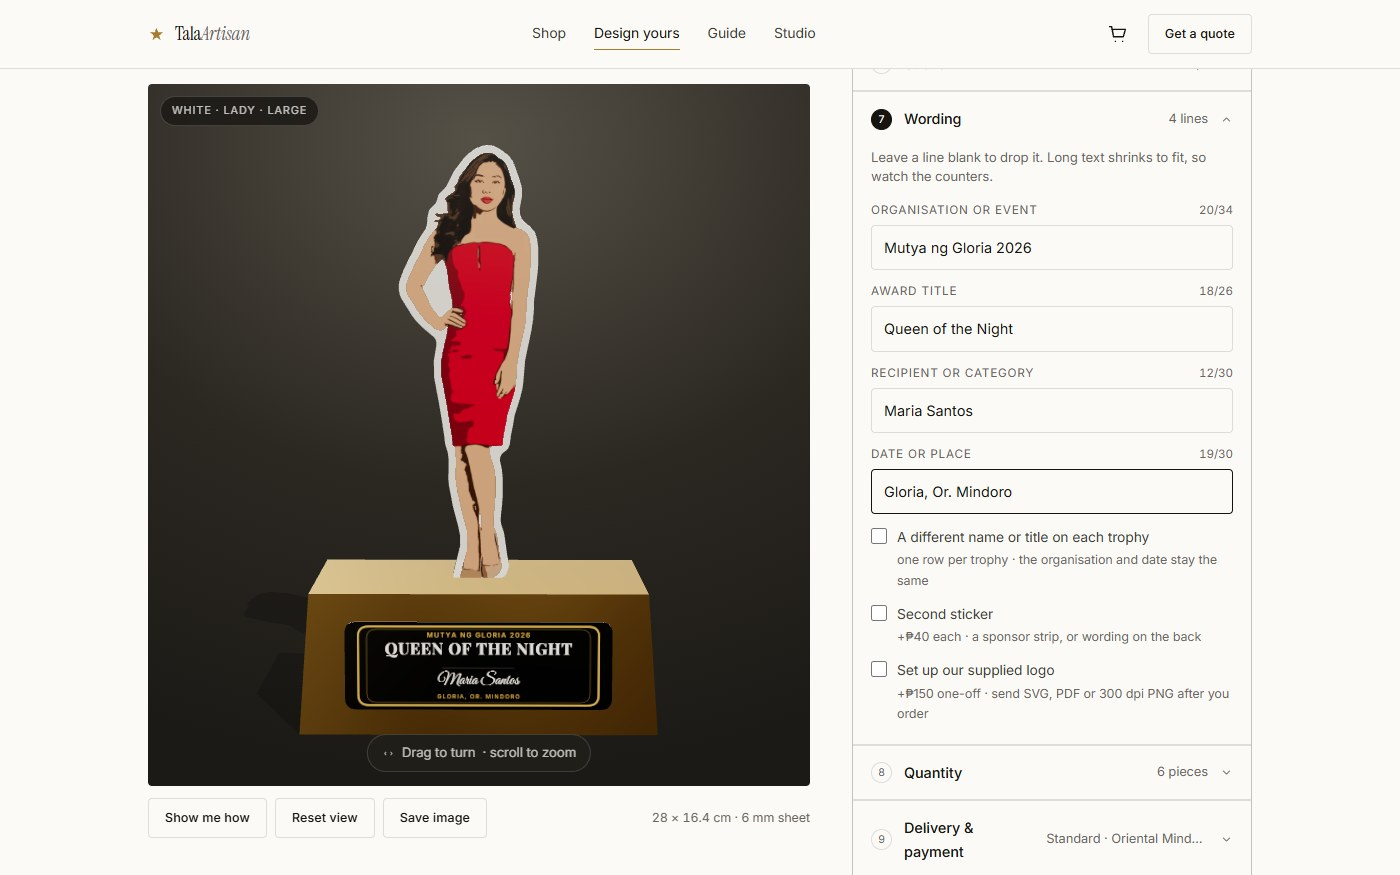
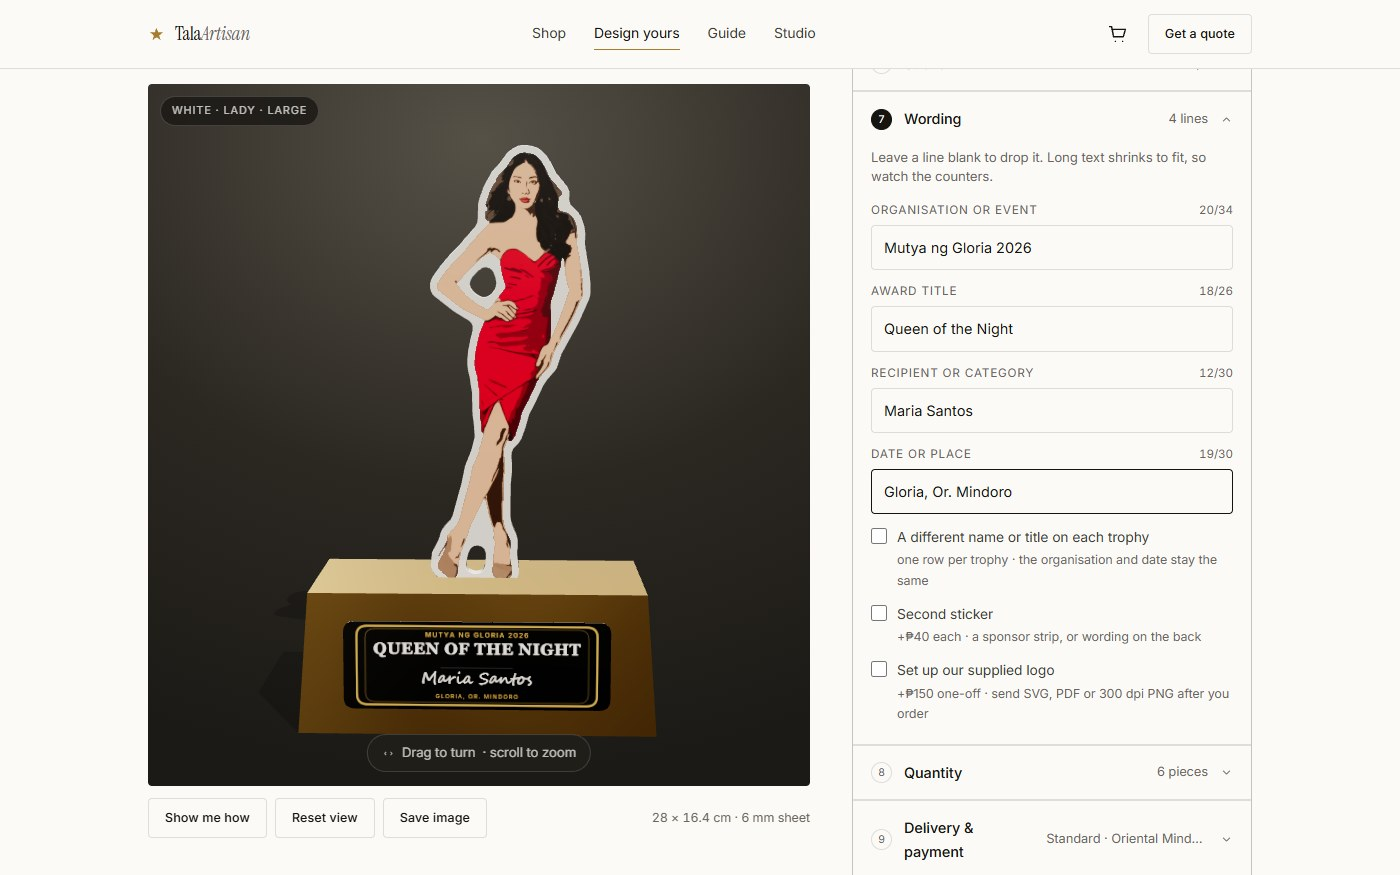
The Lady is a fashion model now
The owner asked for the Lady figure "like a model instead": a tall, slim
model in a strapless red dress, a hand on her hip and one leg crossed in
front, printed in the same ink-line style with a sharp face. The Guide's
wording picture shows her.

Changed region(s): [[0.2764, 0.1543, 0.43, 0.6789], [0.2457, 0.7097, 0.43, 0.8331]]

diff --git a/assets/js/trophy.js b/assets/js/trophy.js
@@ -794,20 +794,26 @@ const GENT_TRACE = `M102.3 299.9 L83.1 299.9 L81.6 298.2 L77.1 295.4 L74.0 292.9
   L87.1 185.4 L87.1 198.1 L90.8 222.4 L92.0 243.7 L93.0 253.4 L93.1 259.5 L92.8 264.6 L92.4 267.4
   L91.1 273.4 L91.1 275.7 L91.4 277.1 L92.8 279.4 L98.1 285.9 L101.7 291.3 L102.4 294.5 Z`;
 
-const LADY_TRACE = `M70.2 299.9 L40.1 299.9 L39.7 293.0 L39.8 290.7 L44.5 271.4 L44.5 263.5 L43.4 257.6 L39.7 243.3
-  L37.0 229.0 L36.6 224.2 L36.8 210.9 L36.4 206.7 L36.0 204.8 L34.5 200.0 L33.6 192.5 L30.9 174.8
-  L27.1 153.9 L27.0 142.5 L28.7 132.4 L28.7 129.9 L28.2 128.2 L27.1 126.5 L18.8 119.5 L16.0 116.6
-  L12.7 112.6 L5.3 100.7 L4.1 97.9 L3.6 95.0 L3.6 91.8 L4.0 89.2 L6.3 83.2 L9.6 76.1
-  L12.5 70.6 L16.6 62.4 L21.5 55.0 L22.3 53.3 L22.9 50.9 L23.1 47.1 L23.9 43.5 L24.3 42.3
-  L24.9 41.4 L28.5 37.9 L29.4 36.3 L30.4 32.8 L31.0 31.6 L35.7 26.7 L40.8 16.8 L47.6 8.1
-  L50.3 5.5 L54.5 2.4 L58.7 0.6 L62.3 -0.1 L65.0 0.1 L66.8 0.4 L70.2 2.0 L76.4 6.5
-  L78.9 9.9 L80.4 13.0 L83.5 21.8 L84.9 26.1 L85.3 28.1 L85.3 32.8 L83.8 40.7 L83.9 43.7
-  L84.3 45.6 L85.4 48.1 L86.1 49.1 L87.5 50.4 L91.0 53.1 L93.7 56.3 L94.8 58.6 L95.5 61.1
-  L96.3 66.8 L96.3 78.9 L96.0 83.2 L93.7 102.4 L93.6 108.4 L93.1 115.2 L92.0 122.3 L87.9 142.2
-  L86.7 157.4 L86.1 162.0 L84.5 168.5 L80.9 179.9 L79.9 186.2 L78.4 193.9 L77.6 200.2 L76.4 202.8
-  L72.3 206.5 L71.5 207.9 L71.0 209.7 L71.0 211.7 L72.3 217.6 L72.9 223.2 L72.9 236.0 L72.5 241.8
-  L71.7 249.2 L71.6 253.7 L72.1 256.9 L73.6 261.1 L74.2 263.7 L76.1 277.3 L77.3 283.5 L77.3 285.8
-  L76.9 287.9 L75.8 290.5 L74.5 292.4 L71.6 295.9 L71.0 297.1 Z`;
+const LADY_TRACE = `M53.6 299.9 L5.0 299.9 L3.6 296.1 L2.0 294.1 L-2.2 289.7 L-3.6 287.0 L-3.8 285.7 L-3.8 283.6
+  L-2.9 276.0 L1.6 267.2 L3.2 261.9 L3.8 260.7 L5.7 258.2 L9.4 254.1 L11.4 250.1 L17.8 226.6
+  L20.1 215.2 L24.5 204.0 L26.8 195.0 L26.2 186.0 L25.3 179.4 L24.9 163.7 L24.0 158.5 L23.6 154.9
+  L22.3 149.4 L21.8 145.4 L21.8 142.2 L22.3 136.2 L23.9 128.0 L25.4 122.2 L25.4 119.2 L24.7 117.4
+  L23.1 115.5 L12.3 108.9 L-0.6 98.8 L-1.7 97.6 L-2.8 95.6 L-3.3 93.6 L-3.3 90.9 L-2.7 88.6
+  L-1.6 86.4 L3.2 79.6 L9.5 72.2 L15.7 66.1 L20.2 60.7 L26.5 53.8 L27.8 51.9 L28.4 50.6
+  L28.8 48.8 L29.2 38.0 L29.7 35.4 L32.7 26.8 L38.2 17.0 L43.7 11.0 L48.0 5.2 L50.2 3.2
+  L52.8 1.5 L55.8 0.3 L57.8 -0.1 L60.6 -0.1 L65.4 0.8 L68.2 1.9 L71.1 4.1 L73.8 7.0
+  L76.4 10.9 L80.2 18.2 L83.7 22.2 L87.8 27.4 L88.9 30.3 L88.8 35.8 L89.6 38.3 L90.3 39.3
+  L95.0 43.7 L97.1 47.1 L99.1 52.9 L99.8 58.0 L99.5 64.0 L102.6 82.0 L103.5 90.0 L103.7 96.8
+  L103.4 98.8 L102.7 101.2 L96.0 116.6 L84.7 137.6 L81.6 147.1 L80.3 149.2 L75.1 155.2 L72.3 159.5
+  L67.4 170.3 L62.8 179.5 L60.5 188.0 L57.9 195.5 L56.1 198.5 L52.1 202.8 L51.1 205.5 L50.9 207.9
+  L51.3 213.0 L51.3 218.9 L50.5 227.7 L50.3 250.1 L51.1 255.1 L52.5 259.1 L54.5 263.6 L55.4 266.7
+  L55.5 271.5 L55.2 274.0 L55.2 277.9 L56.5 288.0 L56.2 291.5 L54.2 296.8 Z
+  M33.4 100.1 L35.9 99.3 L38.2 97.4 L40.1 94.9 L40.9 93.2 L41.4 90.5 L40.7 86.5 L39.1 82.5
+  L38.2 81.4 L36.9 80.3 L34.2 79.4 L33.0 79.4 L31.1 79.9 L28.3 81.9 L24.2 86.3 L23.0 88.3
+  L22.5 90.3 L22.5 91.5 L23.0 93.4 L24.3 95.4 L25.6 96.8 L27.8 98.5 L29.7 99.5 L31.9 100.2 Z
+  M27.9 290.7 L29.5 290.3 L30.8 289.7 L32.0 288.8 L33.0 287.5 L33.9 285.2 L34.5 278.8 L34.4 275.6
+  L33.3 272.9 L31.3 271.1 L28.6 270.2 L27.4 270.2 L25.5 270.7 L23.9 271.7 L22.8 272.9 L21.3 276.0
+  L19.7 282.9 L19.7 285.0 L20.0 286.2 L20.6 287.5 L21.7 288.9 L24.2 290.3 L26.0 290.7 Z`;
 
 const SUIT_TRACE = `M95.8 299.9 L26.5 299.9 L22.3 295.3 L21.4 293.6 L21.0 292.1 L20.9 289.9 L21.4 286.8 L23.5 282.1
   L26.7 276.6 L27.2 274.8 L27.2 272.1 L26.4 267.0 L25.4 257.1 L24.9 248.1 L23.0 237.7 L22.1 231.5
@@ -1137,7 +1143,7 @@ const RUN_W_READY_ART = {"src": "img/figures/run-w-ready.ee09680b.webp", "box": 
 
 const GENT_ART = {"src": "img/figures/gent.418f1c14.webp", "box": [-3.7, -1.11, 103.85, 300.96], "clear": true, "wear": "img/figures/gent-wear.64c5a09d.png", "hi": "img/figures/gent-hi.85ed147f.webp"};
 
-const LADY_ART = {"src": "img/figures/lady.6c6004c6.webp", "box": [2.49, -1.17, 97.56, 301.04], "clear": true, "wear": "img/figures/lady-wear.9d03cdf0.png", "hi": "img/figures/lady-hi.3f35c4c1.webp"};
+const LADY_ART = {"src": "img/figures/lady.f12df48f.webp", "box": [-4.85, -1.21, 104.95, 301.24], "clear": true, "wear": "img/figures/lady-wear.11b1aab9.png", "hi": "img/figures/lady-hi.fd52e3ad.webp"};
 
 const SUIT_ART = {"src": "img/figures/suit.6453ec54.webp", "box": [2.11, -1.15, 98.0, 301.16], "clear": true, "wear": "img/figures/suit-wear.bc8d0319.png", "hi": "img/figures/suit-hi.aebaa446.webp"};
 

diff --git a/cart.html b/cart.html
@@ -12,8 +12,8 @@
 <link rel="preconnect" href="https://fonts.gstatic.com" crossorigin>
 <link rel="preload" as="style" href="https://fonts.googleapis.com/css2?family=Instrument+Serif:ital@0;1&family=Inter:wght@400;500;600&family=Oswald:wght@400;600&family=Playfair+Display:ital,wght@0,700;1,700&family=Great+Vibes&display=swap" onload="this.onload=null;this.rel='stylesheet'">
 <noscript><link rel="stylesheet" href="https://fonts.googleapis.com/css2?family=Instrument+Serif:ital@0;1&family=Inter:wght@400;500;600&family=Oswald:wght@400;600&family=Playfair+Display:ital,wght@0,700;1,700&family=Great+Vibes&display=swap"></noscript>
-<link rel="stylesheet" href="assets/css/styles.css?v=202611082005">
-<link rel="stylesheet" href="assets/css/cart.css?v=202611082005">
+<link rel="stylesheet" href="assets/css/styles.css?v=202611082128">
+<link rel="stylesheet" href="assets/css/cart.css?v=202611082128">
 
 <script type="importmap">
 { "imports": { "three": "https://cdn.jsdelivr.net/npm/three@0.160.0/build/three.module.js" } }
@@ -107,8 +107,8 @@
 
 <a class="msg" href="https://m.me/61595841638997" target="_blank" rel="noopener"><svg viewBox="0 0 24 24" aria-hidden="true"><path d="M12 4c4.4 0 8 3.2 8 7.3s-3.6 7.2-8 7.2c-1 0-2-.2-2.9-.5L5 19.6l1.2-3.5C4.8 14.8 4 13.1 4 11.3 4 7.2 7.6 4 12 4Z"/><path d="m8.3 13 2.6-2.7 2.1 1.6 2.6-2.8"/></svg><span>Message us<span class="msg__more"> on Facebook</span></span></a>
 
-<script src="assets/js/config.js?v=202611082005"></script>
-<script src="assets/js/main.js?v=202611082005" defer></script>
-<script type="module" src="assets/js/cart.js?v=202611082005"></script>
+<script src="assets/js/config.js?v=202611082128"></script>
+<script src="assets/js/main.js?v=202611082128" defer></script>
+<script type="module" src="assets/js/cart.js?v=202611082128"></script>
 </body>
 </html>

diff --git a/index.html b/index.html
@@ -17,7 +17,7 @@
 <link rel="preconnect" href="https://fonts.gstatic.com" crossorigin>
 <link rel="preload" as="style" href="https://fonts.googleapis.com/css2?family=Instrument+Serif:ital@0;1&family=Inter:wght@400;500;600&family=Oswald:wght@400;600&family=Playfair+Display:ital,wght@0,700;1,700&family=Great+Vibes&display=swap" onload="this.onload=null;this.rel='stylesheet'">
 <noscript><link rel="stylesheet" href="https://fonts.googleapis.com/css2?family=Instrument+Serif:ital@0;1&family=Inter:wght@400;500;600&family=Oswald:wght@400;600&family=Playfair+Display:ital,wght@0,700;1,700&family=Great+Vibes&display=swap"></noscript>
-<link rel="stylesheet" href="assets/css/styles.css?v=202611082005">
+<link rel="stylesheet" href="assets/css/styles.css?v=202611082128">
 
 <!-- JS on: the flat drawings in the 3D boxes stay hidden until the real
      picture is in (owner, 5 Nov: "i dont want to show these when it refresh").
@@ -369,8 +369,8 @@
 
 <a class="msg" href="https://m.me/61595841638997" target="_blank" rel="noopener"><svg viewBox="0 0 24 24" aria-hidden="true"><path d="M12 4c4.4 0 8 3.2 8 7.3s-3.6 7.2-8 7.2c-1 0-2-.2-2.9-.5L5 19.6l1.2-3.5C4.8 14.8 4 13.1 4 11.3 4 7.2 7.6 4 12 4Z"/><path d="m8.3 13 2.6-2.7 2.1 1.6 2.6-2.8"/></svg><span>Message us<span class="msg__more"> on Facebook</span></span></a>
 
-<script src="assets/js/config.js?v=202611082005"></script>
-<script src="assets/js/main.js?v=202611082005" defer></script>
-<script type="module" src="assets/js/home.js?v=202611082005"></script>
+<script src="assets/js/config.js?v=202611082128"></script>
+<script src="assets/js/main.js?v=202611082128" defer></script>
+<script type="module" src="assets/js/home.js?v=202611082128"></script>
 </body>
 </html>

diff --git a/design.html b/design.html
@@ -12,8 +12,8 @@
 <link rel="preconnect" href="https://fonts.gstatic.com" crossorigin>
 <link rel="preload" as="style" href="https://fonts.googleapis.com/css2?family=Instrument+Serif:ital@0;1&family=Inter:wght@400;500;600&family=Oswald:wght@400;600&family=Playfair+Display:ital,wght@0,700;1,700&family=Great+Vibes&display=swap" onload="this.onload=null;this.rel='stylesheet'">
 <noscript><link rel="stylesheet" href="https://fonts.googleapis.com/css2?family=Instrument+Serif:ital@0;1&family=Inter:wght@400;500;600&family=Oswald:wght@400;600&family=Playfair+Display:ital,wght@0,700;1,700&family=Great+Vibes&display=swap"></noscript>
-<link rel="stylesheet" href="assets/css/styles.css?v=202611082005">
-<link rel="stylesheet" href="assets/css/designer.css?v=202611082005">
+<link rel="stylesheet" href="assets/css/styles.css?v=202611082128">
+<link rel="stylesheet" href="assets/css/designer.css?v=202611082128">
 
 <script type="importmap">
 { "imports": { "three": "https://cdn.jsdelivr.net/npm/three@0.160.0/build/three.module.js" } }
@@ -647,7 +647,7 @@
 
 <a class="msg" href="https://m.me/61595841638997" target="_blank" rel="noopener"><svg viewBox="0 0 24 24" aria-hidden="true"><path d="M12 4c4.4 0 8 3.2 8 7.3s-3.6 7.2-8 7.2c-1 0-2-.2-2.9-.5L5 19.6l1.2-3.5C4.8 14.8 4 13.1 4 11.3 4 7.2 7.6 4 12 4Z"/><path d="m8.3 13 2.6-2.7 2.1 1.6 2.6-2.8"/></svg><span>Message us<span class="msg__more"> on Facebook</span></span></a>
 
-<script src="assets/js/main.js?v=202611082005" defer></script>
-<script type="module" src="assets/js/designer.js?v=202611082005"></script>
+<script src="assets/js/main.js?v=202611082128" defer></script>
+<script type="module" src="assets/js/designer.js?v=202611082128"></script>
 </body>
 </html>

diff --git a/assets/js/designer.js b/assets/js/designer.js
@@ -4,8 +4,8 @@
    dropped photo only repaint the sticker, so the preview keeps up.
    ══════════════════════════════════════════════════════════════ */
 import * as THREE from 'three';
-import { createViewer, webglAvailable } from './viewer.js?v=202611082005';
-import { hasBadWord } from './wordguard.js?v=202611082005';
+import { createViewer, webglAvailable } from './viewer.js?v=202611082128';
+import { hasBadWord } from './wordguard.js?v=202611082128';
 import {
   buildTrophy, disposeGroup, setSticker,
   SHAPES, MATERIALS, SIZES, DECALS, SCHEMES, LAMINATES, FONTS,
@@ -13,7 +13,7 @@ import {
   OCCASIONS, SPEEDS, ZONES, PAYMENTS, QTY_TIERS,
   quote, peso, fmtDate, setCustomOutline, customOutline, outlinePath, goldPath, tileArt, setVariant, variantsOf, groupsOf, groupOf, isStyled,
   standingHeight, printNote, OUTFITS, hasOutfit, outfitOk,
-} from './trophy.js?v=202611082005';
+} from './trophy.js?v=202611082128';
 
 const $  = (s, c = document) => c.querySelector(s);
 const $$ = (s, c = document) => [...c.querySelectorAll(s)];
@@ -323,7 +323,7 @@ const cut = {
 // "Your art"'s picture (with its art on the trophy) and the photo
 const restored = { picture: null, art: null, photo: null, photoImg: null };
 let cutMod = null;
-const cutLib = async () => cutMod || (cutMod = await import('./cutout.js?v=202611082005'));
+const cutLib = async () => cutMod || (cutMod = await import('./cutout.js?v=202611082128'));
 
 function cutNote(text, bad = false) {
   const el = $('#cutMsg');

diff --git a/assets/js/admin.js b/assets/js/admin.js
@@ -5,16 +5,16 @@
    this browser. Requests come from the quote form; shop trophies are
    what the home page's shop grid shows.
    ══════════════════════════════════════════════════════════════ */
-import { createViewer, webglAvailable } from './viewer.js?v=202611082005';
+import { createViewer, webglAvailable } from './viewer.js?v=202611082128';
 import {
   buildTrophy, disposeGroup, price, peso,
   SHAPES, MATERIALS, SIZES, BASES, BASE_FINISHES, SCHEMES, DECALS, LAMINATES,
   SPEEDS, ZONES, PAYMENTS, variantsOf, standingHeight, printNote, artReady, shopArtOk, SHOP_GROUPS, shopGroup,
   figureArt, recolour, loadArtImage, outfitOk, outfitLabel,
-} from './trophy.js?v=202611082005';
-import { stickerArt, eachWording, pieceArt, pngAtDpi, STICKER_DPI } from './sticker.js?v=202611082005';
-import { simplify } from './cutout.js?v=202611082005';
-import { mountCutEditor } from './cut-editor.js?v=202611082005';
+} from './trophy.js?v=202611082128';
+import { stickerArt, eachWording, pieceArt, pngAtDpi, STICKER_DPI } from './sticker.js?v=202611082128';
+import { simplify } from './cutout.js?v=202611082128';
+import { mountCutEditor } from './cut-editor.js?v=202611082128';
 
 const C = window.TALA_CONFIG || {};
 const URL_ = String(C.supabaseUrl || '').replace(/\/+$/, '');

diff --git a/admin.html b/admin.html
@@ -10,14 +10,14 @@
 <link rel="preconnect" href="https://fonts.googleapis.com">
 <link rel="preconnect" href="https://fonts.gstatic.com" crossorigin>
 <link rel="stylesheet" href="https://fonts.googleapis.com/css2?family=Instrument+Serif:ital@0;1&family=Inter:wght@400;500;600&family=Oswald:wght@400;600&family=Playfair+Display:ital,wght@0,700;1,700&family=Great+Vibes&display=swap">
-<link rel="stylesheet" href="assets/css/styles.css?v=202611082005">
-<link rel="stylesheet" href="assets/css/admin.css?v=202611082005">
+<link rel="stylesheet" href="assets/css/styles.css?v=202611082128">
+<link rel="stylesheet" href="assets/css/admin.css?v=202611082128">
 <script type="importmap">
 { "imports": { "three": "https://cdn.jsdelivr.net/npm/three@0.160.0/build/three.module.js" } }
 </script>
-<script src="assets/js/config.js?v=202611082005"></script>
+<script src="assets/js/config.js?v=202611082128"></script>
 <script src="https://cdn.jsdelivr.net/npm/@supabase/supabase-js@2.45.4/dist/umd/supabase.min.js" defer></script>
-<script type="module" src="assets/js/admin.js?v=202611082005"></script>
+<script type="module" src="assets/js/admin.js?v=202611082128"></script>
 </head>
 <body class="adm">
 <div id="app" class="adm-app">

diff --git a/assets/js/home.js b/assets/js/home.js
@@ -4,8 +4,8 @@
    a single shared context and baked to images.
    ══════════════════════════════════════════════════════════════ */
 import * as THREE from 'three';
-import { createViewer, webglAvailable } from './viewer.js?v=202611082005';
-import { buildTrophy, disposeGroup, price, peso, artReady, shopDesignOk, shopGroup, SHAPES, DESIGNS, MATERIALS, BASES, SIZES } from './trophy.js?v=202611082005';
+import { createViewer, webglAvailable } from './viewer.js?v=202611082128';
+import { buildTrophy, disposeGroup, price, peso, artReady, shopDesignOk, shopGroup, SHAPES, DESIGNS, MATERIALS, BASES, SIZES } from './trophy.js?v=202611082128';
 
 const $  = (s, c = document) => c.querySelector(s);
 const $$ = (s, c = document) => [...c.querySelectorAll(s)];

diff --git a/assets/js/sticker.js b/assets/js/sticker.js
@@ -19,8 +19,8 @@
    design sticker where the 3D trophy wears it. So one design sticker serves
    every trophy of that design; only the wording changes from order to order.
    ══════════════════════════════════════════════════════════════ */
-import { buildTrophy, disposeGroup, cutOutline, DESIGNS, MATERIALS, SCHEMES, DECALS, FONTS, stickerCanvas } from './trophy.js?v=202611082005';
-import { CUTS } from './sticker-cuts.js?v=202611082005';
+import { buildTrophy, disposeGroup, cutOutline, DESIGNS, MATERIALS, SCHEMES, DECALS, FONTS, stickerCanvas } from './trophy.js?v=202611082128';
+import { CUTS } from './sticker-cuts.js?v=202611082128';
 
 export const STICKER_DPI = 300;
 const PXCM = STICKER_DPI / 2.54;          // pixels per cm

diff --git a/assets/js/cart.js b/assets/js/cart.js
@@ -14,9 +14,9 @@
 import {
   quote, peso, fmtDate, SHAPES, SIZES, MATERIALS, BASES, BASE_FINISHES, ZONES, SPEEDS, PAYMENTS, QTY_TIERS, DESIGNS,
   buildTrophy, disposeGroup, artReady, shopDesignOk, shopGroup, OUTFITS, hasOutfit, outfitOk, outfitLabel,
-} from './trophy.js?v=202611082005';
-import { createViewer, webglAvailable } from './viewer.js?v=202611082005';
-import { hasBadWord } from './wordguard.js?v=202611082005';
+} from './trophy.js?v=202611082128';
+import { createViewer, webglAvailable } from './viewer.js?v=202611082128';
+import { hasBadWord } from './wordguard.js?v=202611082128';
 
 const C = window.TALA_CONFIG || {};
 const BASE = String(C.supabaseUrl || '').replace(/\/+$/, '');

diff --git a/assets/js/cut-editor.js b/assets/js/cut-editor.js
@@ -10,7 +10,7 @@
    base. Here the mask is trimmed at the base line, painted by hand, and cut
    again (finishCut) after every change; the cut goes back through onCut.
    ══════════════════════════════════════════════════════════════ */
-import { readImage, autoMask, maskPlain, finishCut, findBase, fillHoles } from './cutout.js?v=202611082005';
+import { readImage, autoMask, maskPlain, finishCut, findBase, fillHoles } from './cutout.js?v=202611082128';
 
 const TYPES = /^image\/(png|jpeg|webp)$/;
 const MAX_MB = 10;

diff --git a/tour.html b/tour.html
@@ -14,7 +14,7 @@
 <link rel="preconnect" href="https://fonts.googleapis.com">
 <link rel="preconnect" href="https://fonts.gstatic.com" crossorigin>
 <link rel="stylesheet" href="https://fonts.googleapis.com/css2?family=Instrument+Serif:ital@0;1&family=Inter:wght@400;500;600&display=swap">
-<link rel="stylesheet" href="assets/css/styles.css?v=202611082005">
+<link rel="stylesheet" href="assets/css/styles.css?v=202611082128">
 <style>
   /* The tour: one feature per row, a real screenshot of the live site beside a
      short explanation. Uses the site's own type, colours and buttons. */
